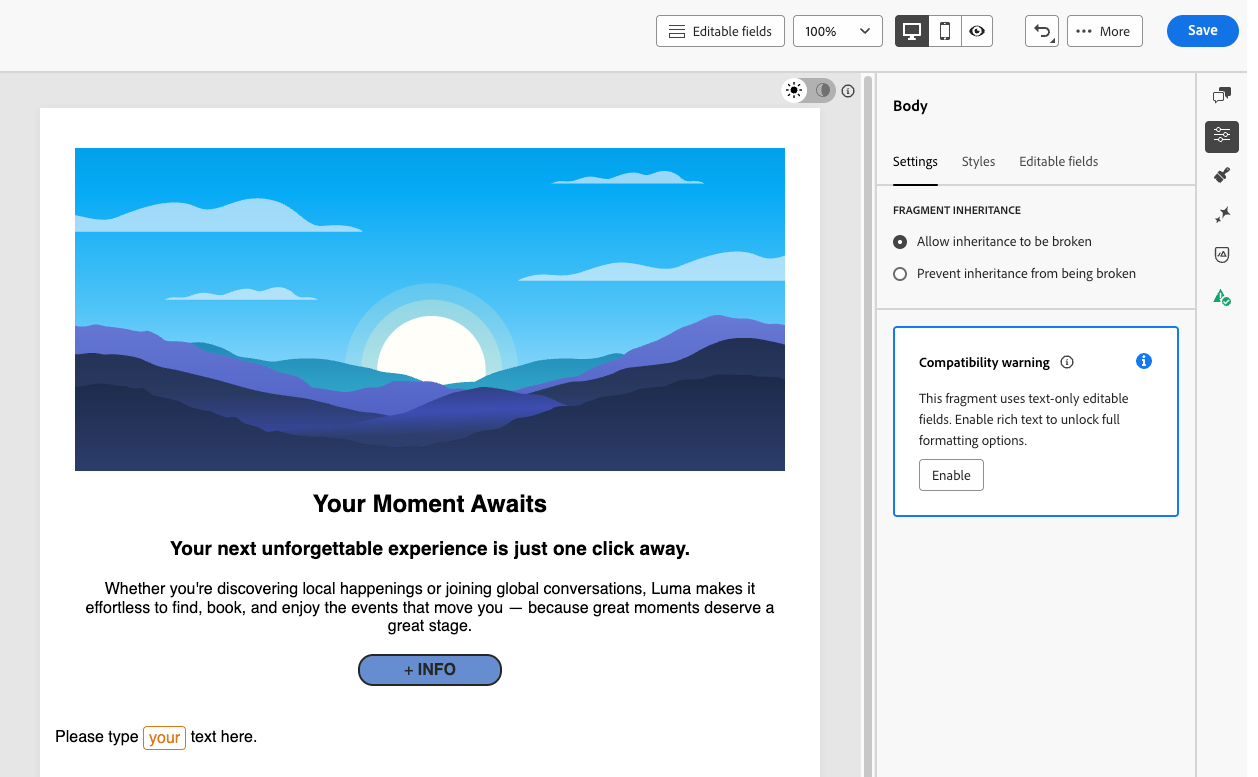
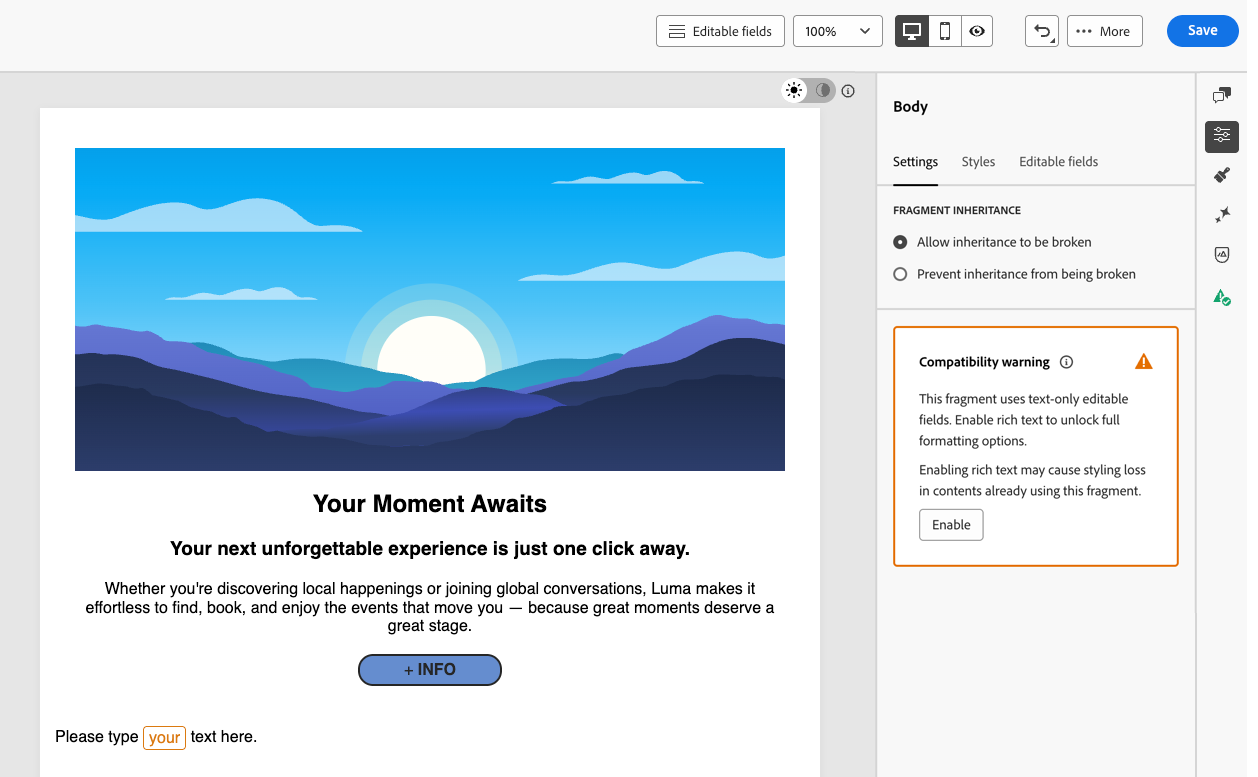
DOCAC-15939 Add caution about styling loss when enabling rich text in customizable fragments

Changed region(s): [[0.682, 0.0927, 0.93, 1.0], [0.744, 0.3089, 0.899, 0.3707], [0.899, 0.4633, 0.93, 0.4942]]

diff --git a/help/using/rn/documentation-updates.md b/help/using/rn/documentation-updates.md
@@ -33,6 +33,8 @@ This page lists all the latest changes in [!DNL Journey Optimizer] documentation
 
 ## October 2026 {#october-2026}
 
+* A caution has been added to the **Customizable fragments** page to inform users that enabling rich text on a legacy customizable visual fragment may cause styling loss in emails, journeys, campaigns, or templates already using it. It also describes the workarounds, and the compatibility warning screenshot has been updated. [Read more](../content-management/customizable-fragments.md#rich-text-visual)
+
 * A new **Configure OAuth 2.0 authentication** page explains how to set up OAuth 2.0 authentication for custom channels, including the token request payload (form or JSON), credential paths, token extraction, and where the token is added to delivery requests. It also lists the limits and validation rules. [Read more](../custom-channel/custom-channel-oauth2.md)
 
 * A new **Archiving** section groups the options for retaining sent messages. The new **Get started with message archiving** page compares BCC email and Message Export, and explains why mirror pages and the Entity Dataset are not archiving options. The BCC page has been renamed **Archive emails using BCC**, and **Export message content** now sits in the same section. [Read more](../configuration/archiving-overview.md)

diff --git a/help/using/content-management/customizable-fragments.md b/help/using/content-management/customizable-fragments.md
@@ -117,7 +117,7 @@ However, if you created fragments and defined editable fields before the rich-te
 
 * A compatibility warning is displayed in the fragment editor.
 
-    ![](assets/fragment-custom-compatibility.png)
+    ![](assets/fragment-custom-compatibility.png){width="100%"}
 
     To unlock rich-text mode for these editable fields when using the fragment in an email, click the **Enable** button and save the fragment.
 
@@ -128,6 +128,10 @@ However, if you created fragments and defined editable fields before the rich-te
     To upgrade the fragment to rich-text mode, use the **Open fragment** button to access the fragment editor and click the **Enable** button and save the fragment.
 
 Until the rich-text mode is unlocked, the legacy customizable visual fragments continue to support plain text only. Users cannot enter rich text into the editable fields of these fragments.
+
+>[!CAUTION]
+>
+>Enabling rich text may cause styling loss in journeys, campaigns, or templates already using the fragment. To work around this, either correct the styling in the affected contents (email or template), or create a new fragment with rich text enabled, then replace the old fragment with the new one in your contents.
 
 ## Add editable fields to HTML components and expression fragments {#expression}
 
